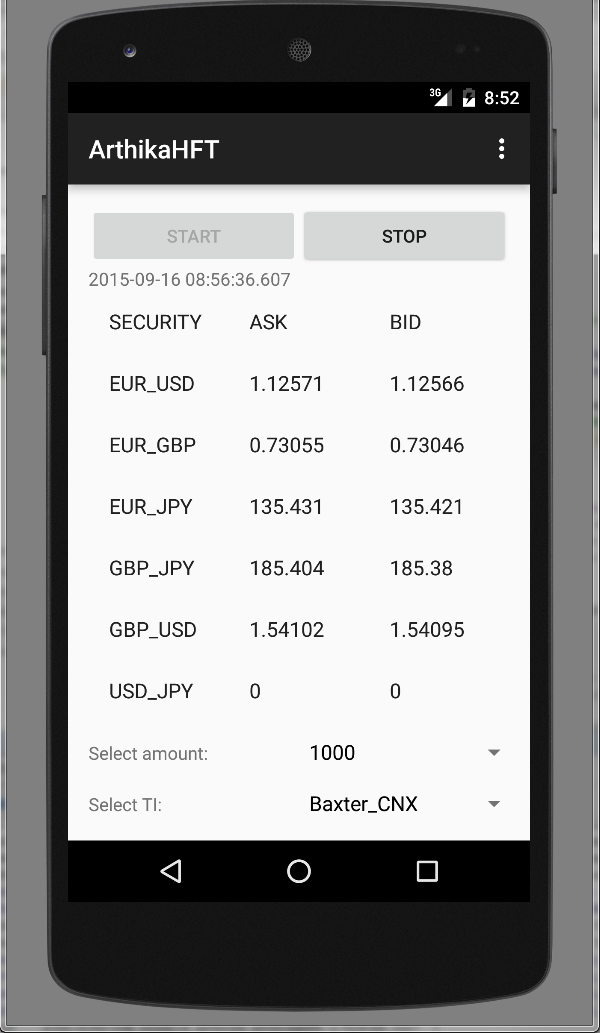
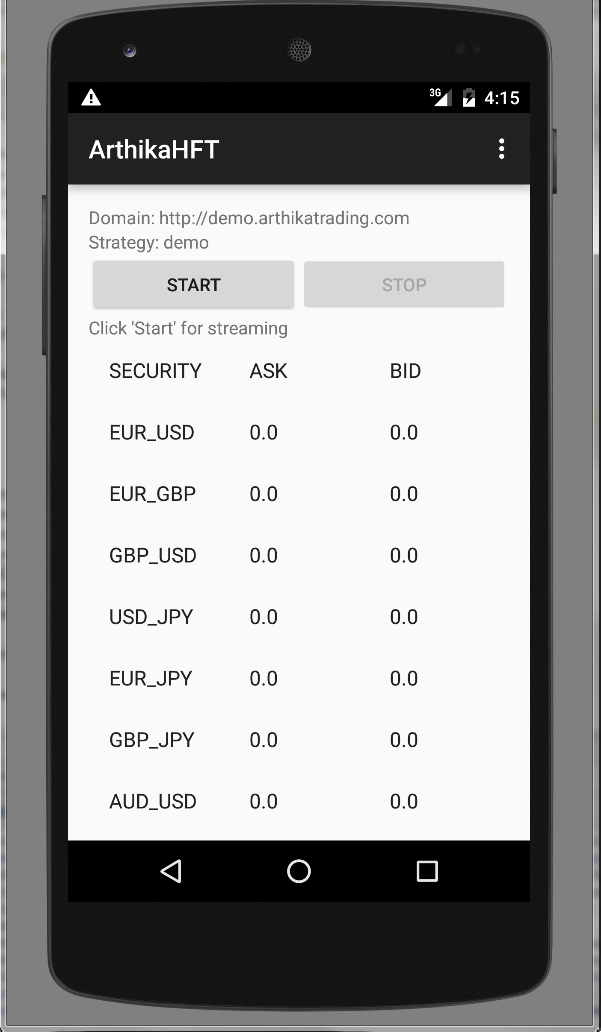
Update README.md and new images

diff --git a/README.md b/README.md
@@ -8,9 +8,32 @@ This sample App for Android demonstrates the use of Arthika's REST API.
 
 <a name="Screenshots"/>
 ### Screenshots:
+
+Start:
 ![Sample App screenshot preview](Images/Android-Sample-App-0.png)
+
+Getting prices:
 ![Sample App screenshot preview](Images/Android-Sample-App-1.png)
+
+Watching prices:
 ![Sample App screenshot preview](Images/Android-Sample-App-2.png)
+![Sample App screenshot preview](Images/Android-Sample-App-3.png)
+
+Send order:
+![Sample App screenshot preview](Images/Android-Sample-App-4.png)
+
+Watching order:
+![Sample App screenshot preview](Images/Android-Sample-App-5.png)
+
+Cancel order:
+![Sample App screenshot preview](Images/Android-Sample-App-6.png)
+
+Modify order:
+![Sample App screenshot preview](Images/Android-Sample-App-7.png)
+
+Accounting:
+![Sample App screenshot preview](Images/Android-Sample-App-8.png)
+
 <a name="Requirements"/>
 ### Requirements:
 You will need Android Studio at least 1.3.2 version, you can download these from
